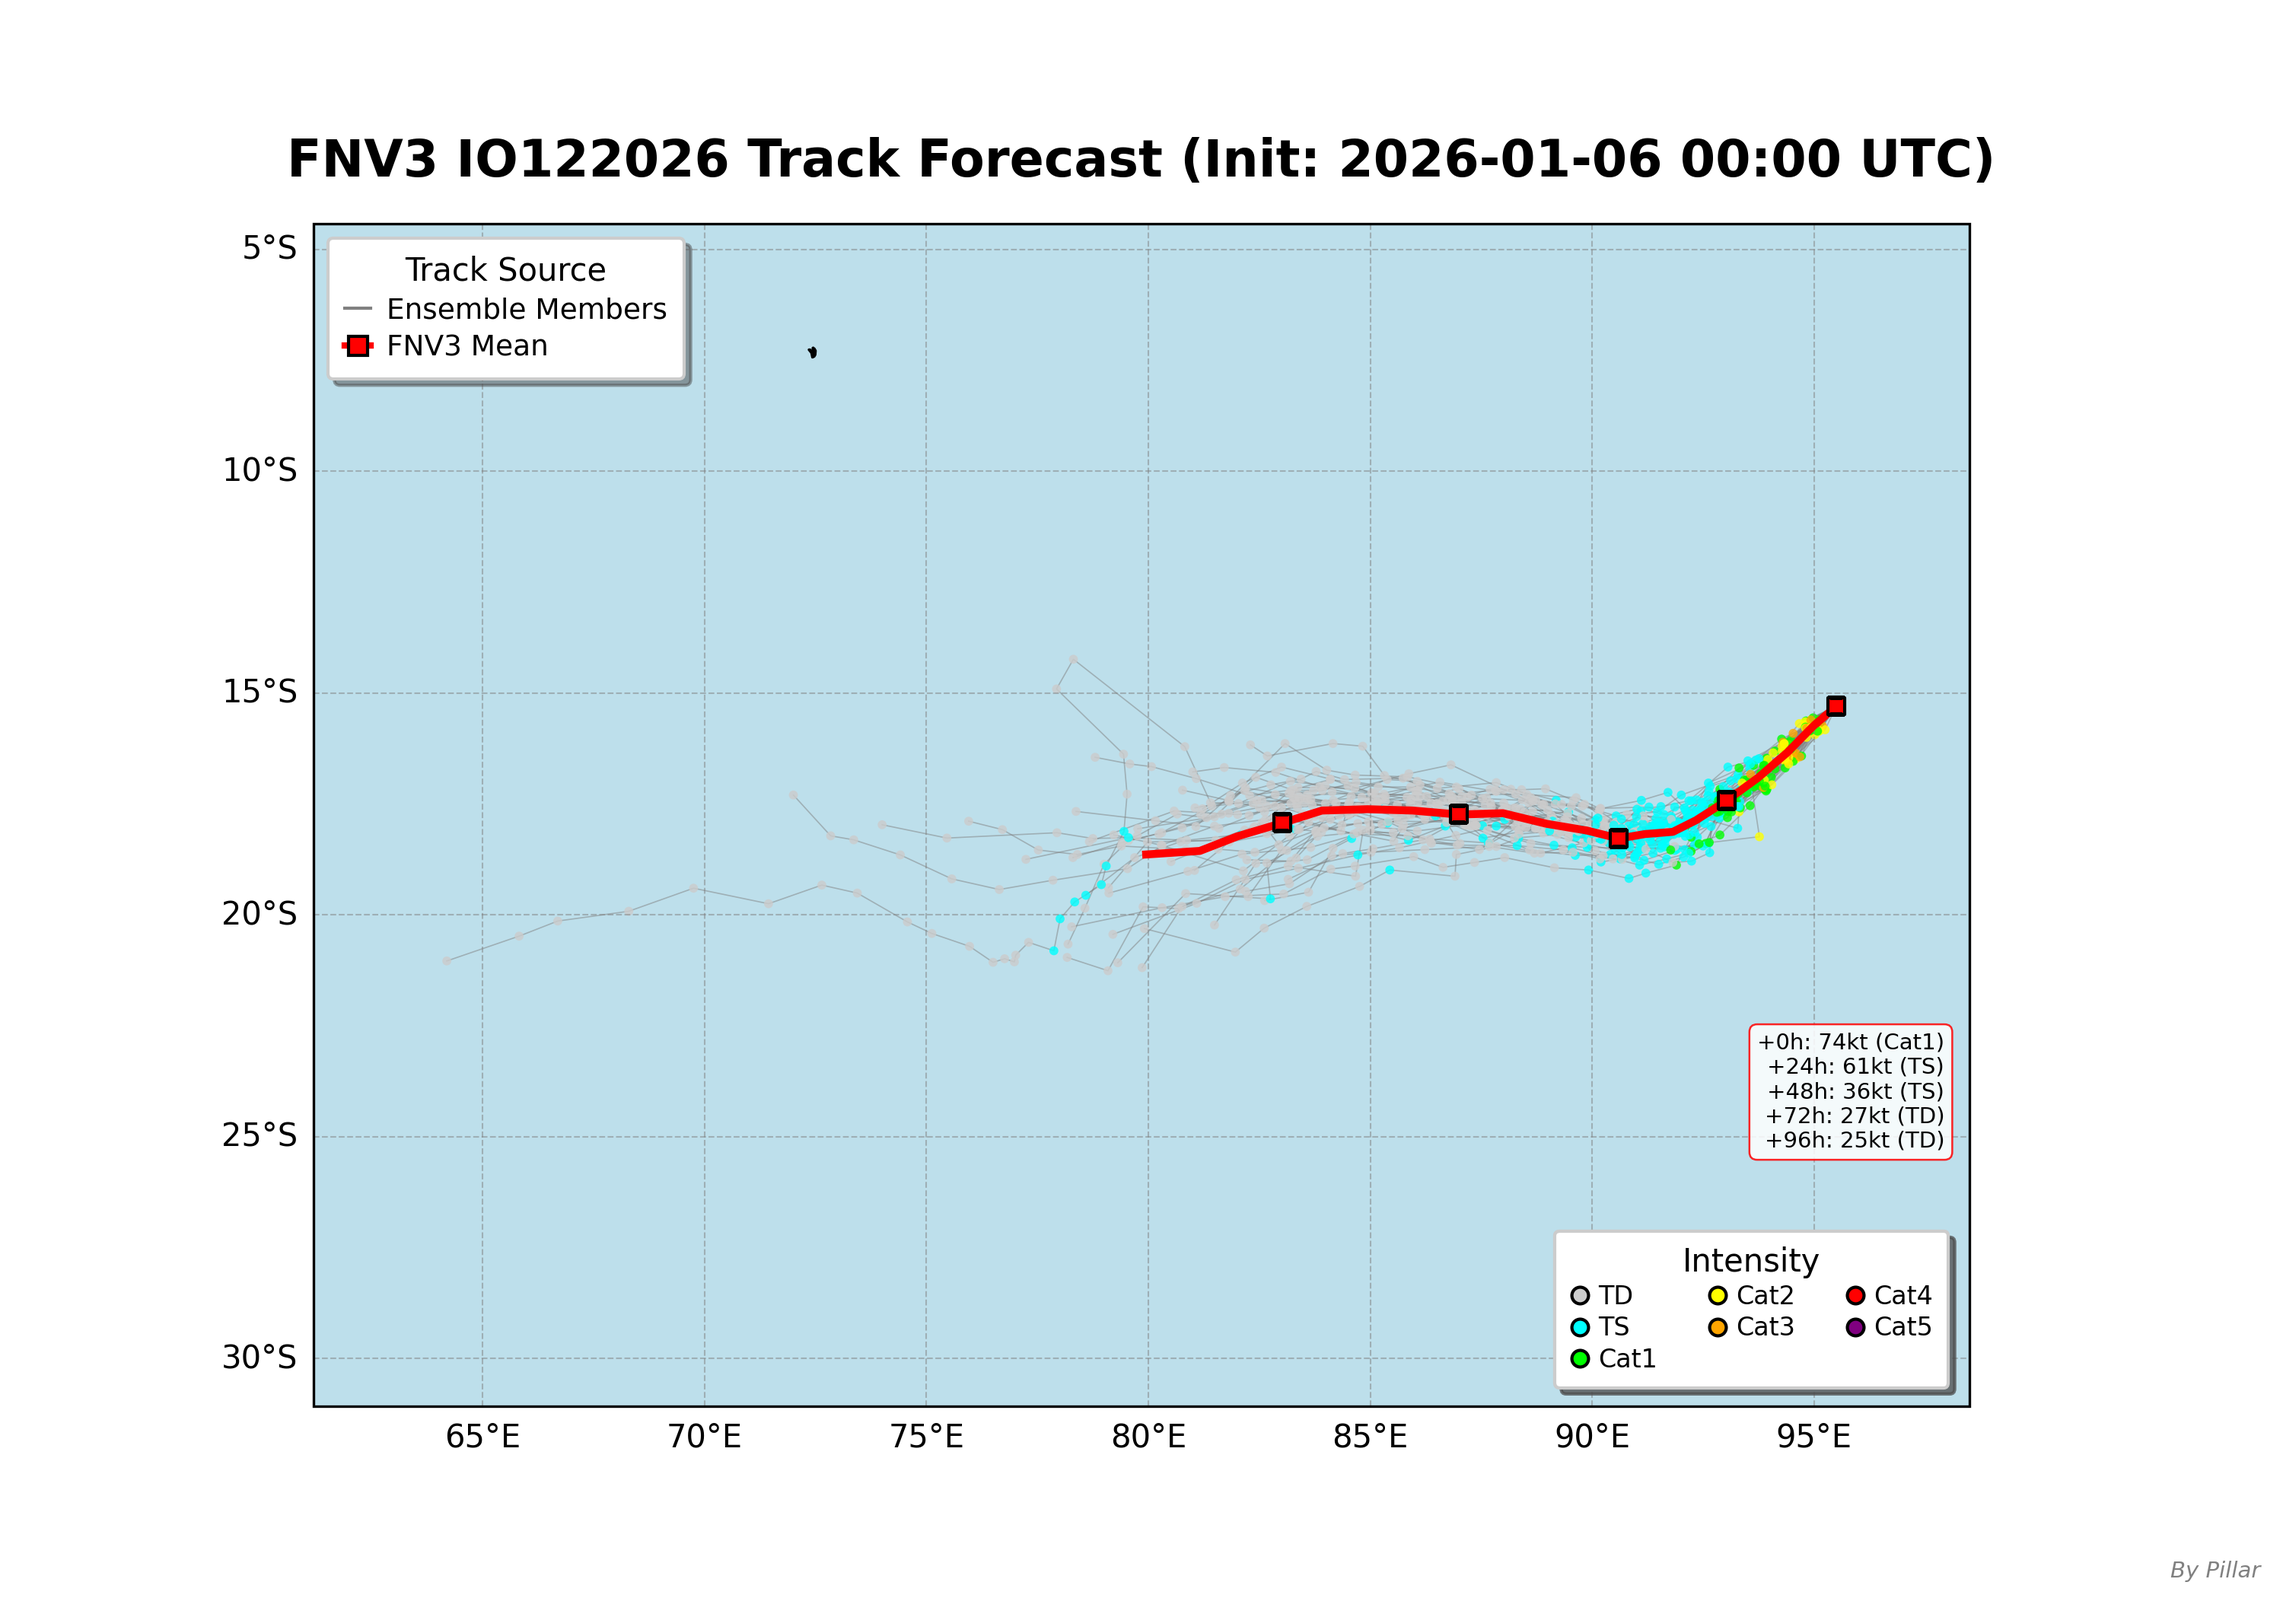
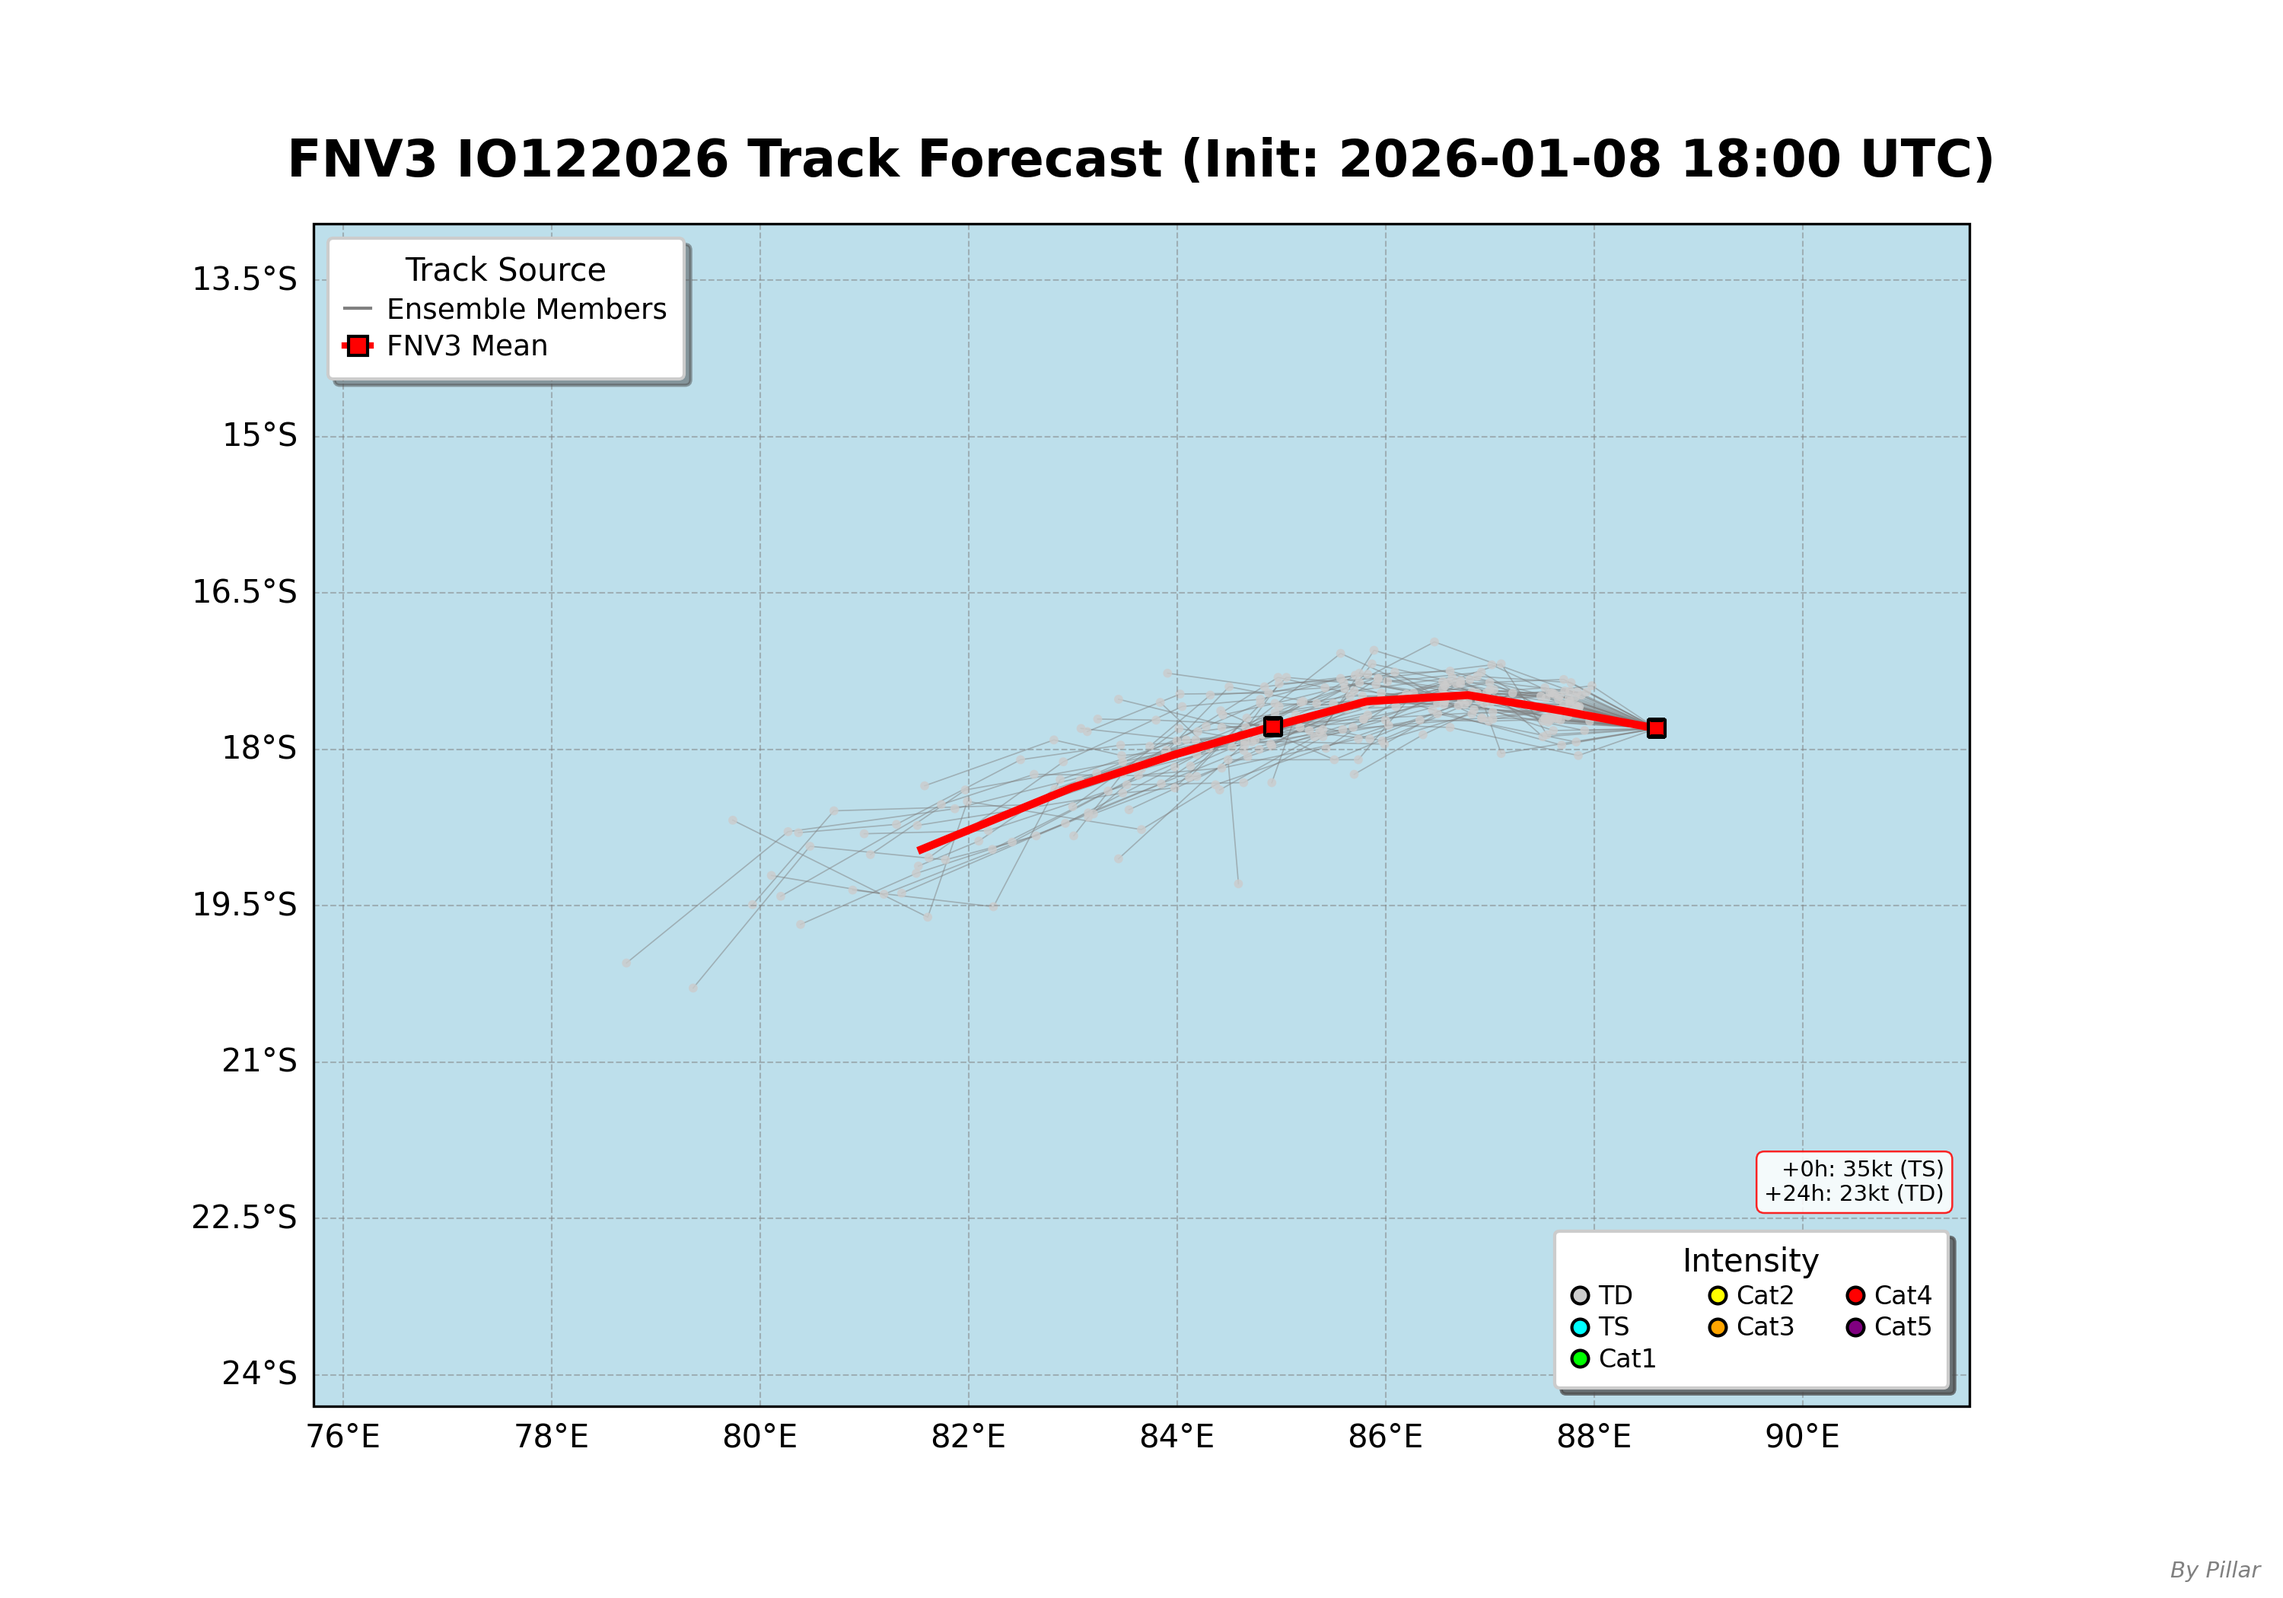
Add files via upload

diff --git a/index.html b/index.html
@@ -689,7 +689,7 @@
                     <div class="subtitle">Real-time FNV3 Ensemble Forecast System</div>
                 </div>
                 <div class="update-badge">
-                    ⏰ Updated: 2026-01-06 17:51:12
+                    ⏰ Updated: 2026-01-09 12:14:00
                 </div>
             </div>
         </header>
@@ -708,34 +708,26 @@
                 <div class="info-grid">
                     <div class="info-item">
                         <div class="info-label">🛰 Current Time</div>
-                        <div class="info-value">060600 Z</div>
+                        <div class="info-value">081800 Z</div>
                     </div>
                     <div class="info-item">
                         <div class="info-label">📍 Current Position</div>
-                        <div class="info-value">16.0°S, 94.5°E</div>
+                        <div class="info-value">17.8°S, 88.1°E</div>
                     </div>
                     <div class="info-item">
                         <div class="info-label">💨 Maximum Wind</div>
-                        <div class="info-value">90 kt</div>
+                        <div class="info-value">35 kt</div>
                     </div>
                     <div class="info-item">
                         <div class="info-label">🔥 Intensity (Saffir-Simpson)</div>
                         <div class="info-value intensity-value">
-                            <span class="intensity-dot" style="background: #FFFF00;"></span>
-                            <span class="legend-label">Cat2</span>
+                            <span class="intensity-dot" style="background: #00FFFF;"></span>
+                            <span class="legend-label">TS</span>
                         </div>
                     </div>
                     <div class="info-item mobile-wind-radii" style="grid-column: span 2;">
                         <div class="info-label">🌀 34 kt Wind Radii</div>
-                        <div class="info-value">NE: 090 / SE: 100 / SW: 100 / NW: 080 nm</div>
-                    </div>
-                    <div class="info-item mobile-wind-radii" style="grid-column: span 2;">
-                        <div class="info-label">🌀 50 kt Wind Radii</div>
-                        <div class="info-value">NE: 045 / SE: 050 / SW: 050 / NW: 045 nm</div>
-                    </div>
-                    <div class="info-item mobile-wind-radii" style="grid-column: span 2;">
-                        <div class="info-label">🌀 64 kt Wind Radii</div>
-                        <div class="info-value">NE: 030 / SE: 030 / SW: 030 / NW: 030 nm</div>
+                        <div class="info-value">NE: 000 / SE: 165 / SW: 105 / NW: 000 nm</div>
                     </div>
                 </div>
 
@@ -790,9 +782,9 @@
                         <button class="control-btn" onclick="pauseAnimation('IO122026')">⏸ Pause</button>
                         <button class="control-btn" onclick="resetAnimation('IO122026')">⟲ Reset</button>
                         <div class="progress-bar-container">
-                            <input type="range" id="progress-IO122026" class="progress-slider" min="0" max="44" value="0" 
+                            <input type="range" id="progress-IO122026" class="progress-slider" min="0" max="9" value="0" 
                                    oninput="seekFrame('IO122026', this.value)">
-                            <span id="frame-counter-IO122026" class="frame-counter">1/45</span>
+                            <span id="frame-counter-IO122026" class="frame-counter">1/10</span>
                         </div>
                     </div>
                 </div>
